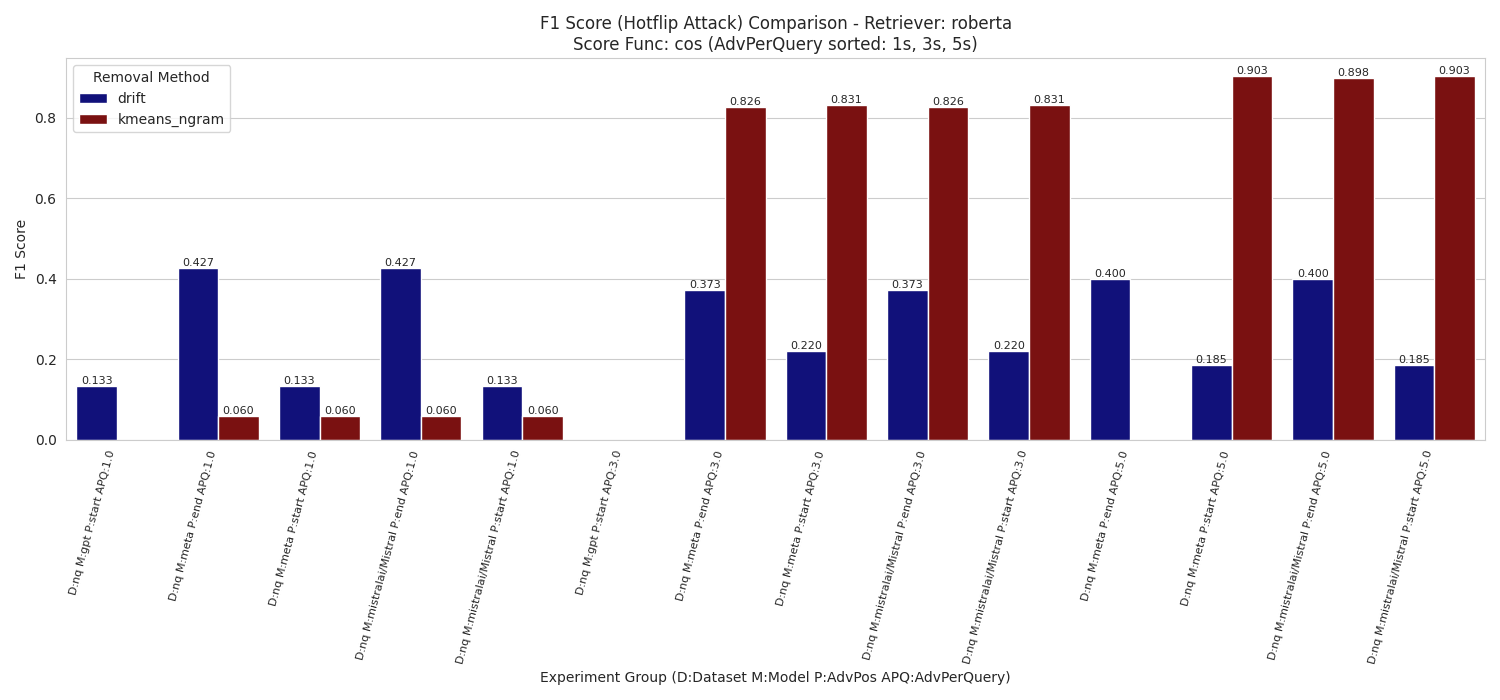
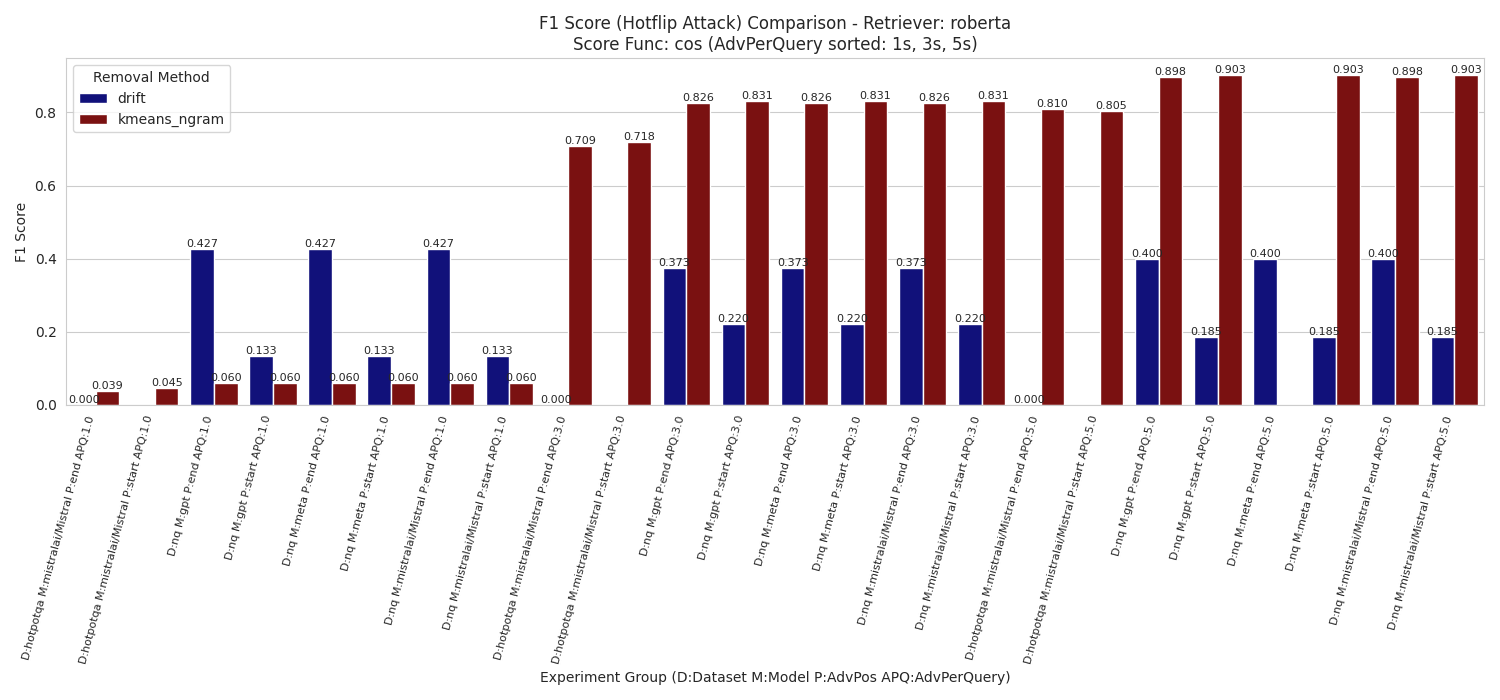
analyze

diff --git a/src/defend_module.py b/src/defend_module.py
@@ -424,23 +424,29 @@ def drift_filtering(args, tokenizer, model, get_emb, question, contents, score):
             dot_start_thresh = 3.15
             dot_end_thresh = 0.258
     elif args.eval_model_code == "minilm":
-        if args.eval_dataset == "nq":
+        if args.eval_dataset == "mirage":
+            cos_start_thresh = 0.375
+            cos_end_thresh = 0.06
+        elif args.eval_dataset == "nq":
             cos_start_thresh = 0.5
             cos_end_thresh = 0.24
         elif args.eval_dataset == "hotpotqa":
             cos_start_thresh = 0.656
             cos_end_thresh = 0.31
     elif args.eval_model_code == "roberta":
-        if args.eval_dataset == "nq":
+        if args.eval_dataset == "mirage":
+            cos_start_thresh = 0.428
+            cos_end_thresh = 0.046
+        elif args.eval_dataset == "nq":
             cos_start_thresh = 0.49
             cos_end_thresh = 0.25
         elif args.eval_dataset == "hotpotqa":
             cos_start_thresh = 0.68
             cos_end_thresh = 0.421
     elif args.eval_model_code == "mpnet":
-        raise NotImplementedError(
-            "MPNet model is not implemented for drift filtering. Please use a different model."
-        )
+        if args.eval_dataset == "mirage":
+            cos_start_thresh = 0.648
+            cos_end_thresh = 0.186
     else:
         raise ValueError(f"Unsupported eval_model_code: {args.eval_model_code}")
     self_truncated_start_mask = diff_scores_mask(
